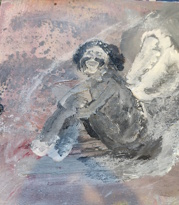
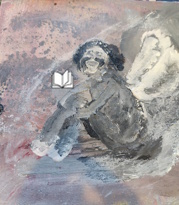
Alt er godt

Changed region(s): [[0.2793, 0.322, 0.419, 0.439]]

diff --git a/ref/Alt er godt.html b/ref/Alt er godt.html
@@ -1,0 +1,108 @@
+<!DOCTYPE html>
+<html>
+<head>
+  <meta http-equiv="Content-Type" content="text/html; charset=UTF-8">
+  <link rel="stylesheet" href="../styles.css">
+</head>
+<body>
+    <p>
+		<a href="../gallary.html">tilbage</a>
+	</p>
+	<table>
+		<tr>
+			<td style="vertical-align: top; padding-right: 60px;">
+				<h3>Alt er godt (19/9-2026):</h3>				
+					<p>	
+						Jeg mener det virkeligt
+						<br>
+						Næsten
+						<br>
+						Alt er godt
+						<br>
+						eller hva
+					</p>
+					<p>	
+						Jeg føler igen 
+						<br>
+						jeg lever igen
+						<br>
+						jeg fejler igen
+					</p>
+					<p>	
+						Men alt er ikke godt
+						<br>
+						eller hva
+						<br>
+						splittede tanker på tværs
+						<br>
+						rund tosset tosse tænker tanken
+					</p>
+					<p>	
+						Jeg vil ønske igen
+						<br>
+						Jeg vil ikke være syg igen
+						<br>
+						Jeg vil ikke lege mere
+						<br>
+						Jeg vil være alvorlig
+					</p>
+					<p>	
+						Men tosset stilling tagelse
+						<br>
+						skygger over livet
+						<br>
+						Men er jeg rask .. Nej!
+						<br>
+						eller Ja!		
+					</p>
+					<p>	
+						Ikke helt endnu 
+						<br>
+						Skal lige overstå et kapitel
+						<br>
+						mere mere 
+						<br>
+						til trummens sidste slag
+						<br>
+						til vandvids musikken spiller
+					</p>
+					<p>			
+						Nu spiller musikken igen
+						<br>
+						nu lever vi en smugle 
+						<br>
+						Men et nyt nummer bliver sat på
+						<br>
+						så er det forfra igen
+					</p>
+					<p>	
+						Det er det bedste 
+						<br>
+						der nogensinde er sket mig
+						<br>
+						Muglighedden for at starte forfra
+						<br>
+						Muglighedden for et liv
+					</p>
+					<p>	
+						Med fejl og mangler
+						<br>
+						Bliver man til et menneske
+						<br>
+						Svaret vi venter på
+						<br>
+						Er alt godt ?
+					</p>
+					<p>	
+						Ja tak!
+					</p>
+				</td>
+			<td>
+					<a href="../img/2026-08-x afsnittet (1).jpeg"><img height="803" src="../img/2026-08-x afsnittet (1).jpeg"></a>
+				
+			</td>
+			
+			</tr>
+		</table>
+</body>
+</html>

diff --git a/index.html b/index.html
@@ -225,6 +225,106 @@
 
 
 <dl class="timeline-series">
+<dt class="timeline-event start-open" id="2026-09-19"><a>Alt er godt (19/9-2026):</a></dt>
+<dd class="timeline-event-content" id="2026-09-19EX" style="display:none;">
+<table>
+<tr>
+<td style="vertical-align: top;">
+	<p3>
+		Jeg mener det virkeligt
+		<br>
+		Næsten
+		<br>
+		Alt er godt
+		<br>
+		eller hva
+	</p3>
+	<p3>
+		Jeg føler igen 
+		<br>
+		jeg lever igen
+		<br>
+		jeg fejler igen
+	</p3>	
+	<p3>
+		Men alt er ikke godt
+		<br>
+		eller hva
+		<br>
+		splittede tanker på tværs
+		<br>
+		rund tosset tosse tænker tanken
+	</p3>
+	<p3>
+		Jeg vil ønske igen
+		<br>
+		Jeg vil ikke være syg igen
+		<br>
+		Jeg vil ikke lege mere
+		<br>
+		Jeg vil være alvorlig
+	</p3>
+	<p3>
+		Men tosset stilling tagelse
+		<br>
+		skygger over livet
+		<br>
+		Men er jeg rask .. Nej!
+		<br>
+		eller Ja!	
+	</p3>
+</td>
+<td style="vertical-align: top;">
+	<p3>
+		Ikke helt endnu 
+		<br>
+		Skal lige overstå et kapitel
+		<br>
+		mere mere 
+		<br>
+		til trummens sidste slag
+		<br>
+		til vandvids musikken spiller
+	</p3>
+	<p3>
+		Nu spiller musikken igen
+		<br>
+		nu lever vi en smugle 
+		<br>
+		Men et nyt nummer bliver sat på
+		<br>
+		så er det forfra igen
+	</p3>
+	<p3>
+		Det er det bedste 
+		<br>
+		der nogensinde er sket mig
+		<br>
+		Muglighedden for at starte forfra
+		<br>
+		Muglighedden for et liv
+	</p3>
+	<p3>
+		Med fejl og mangler
+		<br>
+		Bliver man til et menneske
+		<br>
+		Svaret vi venter på
+		<br>
+		Er alt godt ?
+	</p3>
+	
+	<p3>
+		Ja tak!
+	</p3>
+</td>
+</tr>
+</table>
+<br class="clear"/>
+</dd><!-- /.timeline-event-content -->
+</dl>
+
+<dl class="timeline-series">
 <dt class="timeline-event start-open" id="2026-09-09"><a>Til Min Datter igen (09/09-2023)</a></dt>
 <dd class="timeline-event-content" id="2026-09-09EX" style="display:none;">
 <table>

diff --git a/gallary.html b/gallary.html
@@ -38,8 +38,9 @@
 	<a href="./img/Mere Godt (1).jpeg"><img src="./img/Mere Godt (1)_t.jpg" alt="description" /></a>
 	<a href="./img/Mere Godt (2).jpeg"><img src="./img/Mere Godt (2)_t.jpg" alt="description" /></a>
 	
+	<a href="./ref/Alt er godt.html"><img src="./img/2026-08-x afsnittet (1)_t.jpg" alt="Alt Godt" /></a>
 	
-	<a href="./img/2026-08-x afsnittet (1).jpeg"><img src="./img/2026-08-x afsnittet (1)_t.jpg" alt="description" /></a>
+	
 	<a href="./img/2026-08-x afsnittet (2).jpeg"><img src="./img/2026-08-x afsnittet (2)_t.jpg" alt="description" /></a>
 	<a href="./img/2026-08-x afsnittet (2_1).jpeg"><img src="./img/2026-08-x afsnittet (2_1)_t.jpg" alt="description" /></a>
 	<a href="./img/2026-08-x afsnittet (3).jpeg"><img src="./img/2026-08-x afsnittet (3)_t.jpg" alt="description" /></a>
